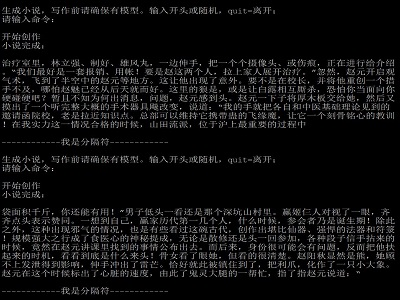
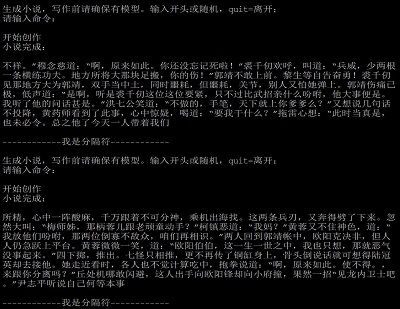
。

diff --git a/README.md b/README.md
@@ -43,7 +43,7 @@ tensorflow的代码参考了github一个比较火的项目<https://github.com/ji
 <br>
 3.训练的时候batchsize是大于1的，生成的时候batchsize=1，cell_mul.zero_state这里要注意。所以要保存训练的参数，生成的时候模型结构有改变，再导入训练参数。<br>
 <br>
-4.闲来无事想试着生成小说，网上随便下了一个叫《神级巫医在都市》，结果还是差强人意。
+4.闲来无事想试着生成小说，一开始用的网络小说生成的很差，后来找了射雕英雄传有那么点感觉。
 
 ## 成果展示
 **先运行train_keras_poem.py、train_tensorflow_poem.py进行训练，再运行generate_keras_poem.py、generate_tensorflow_poem.py即可**<br>
